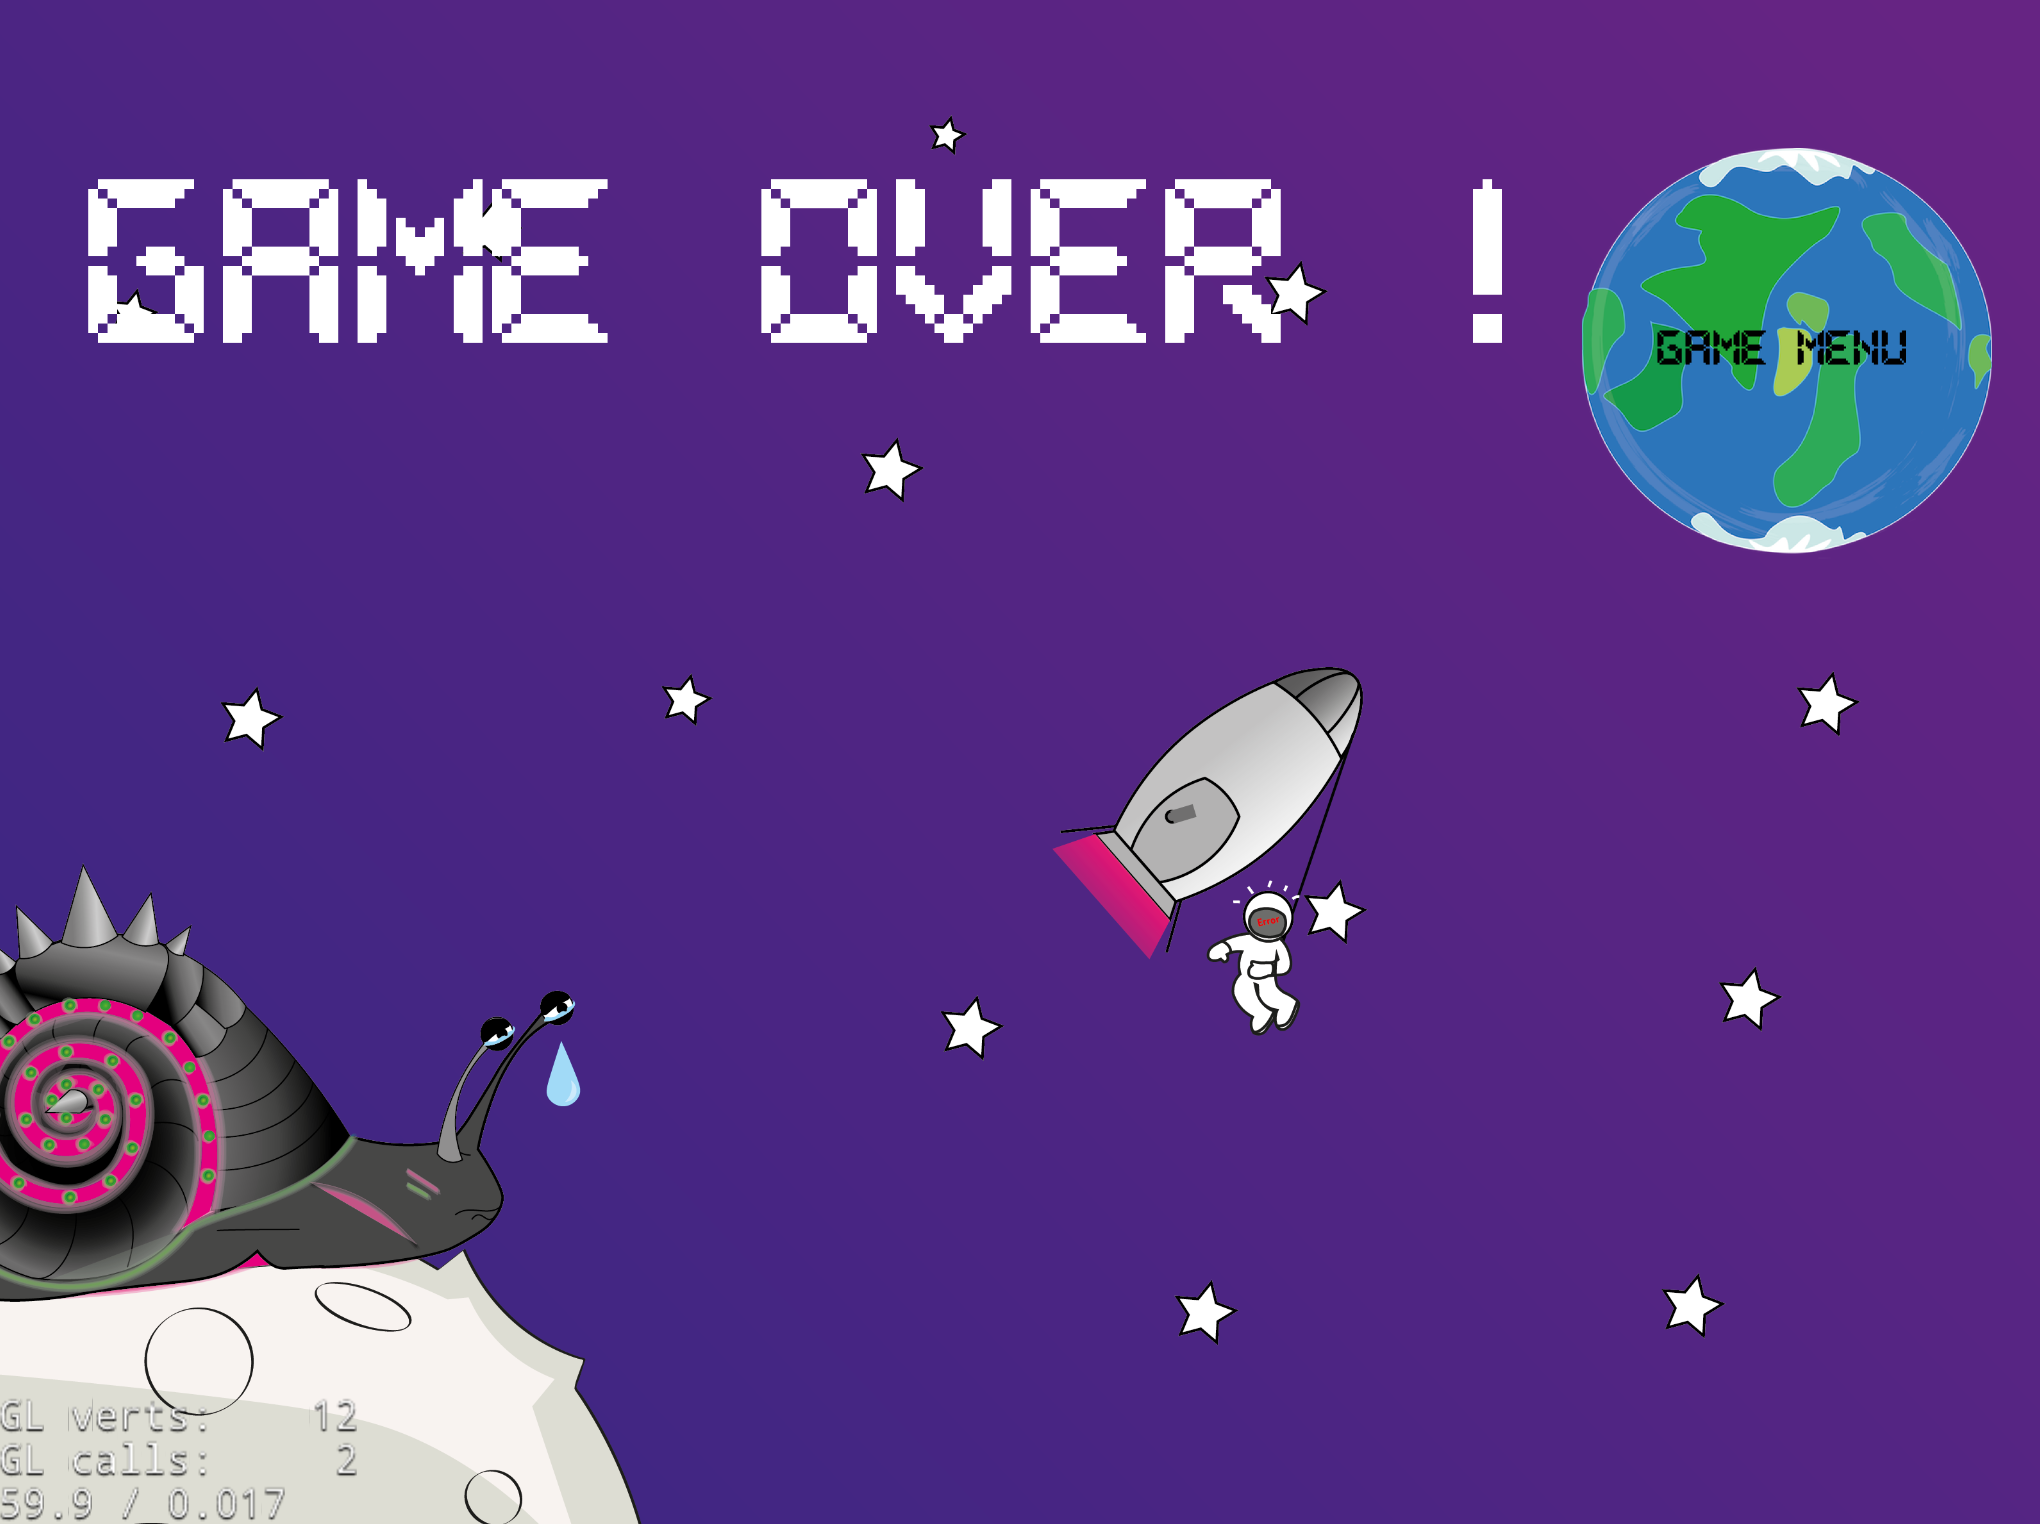
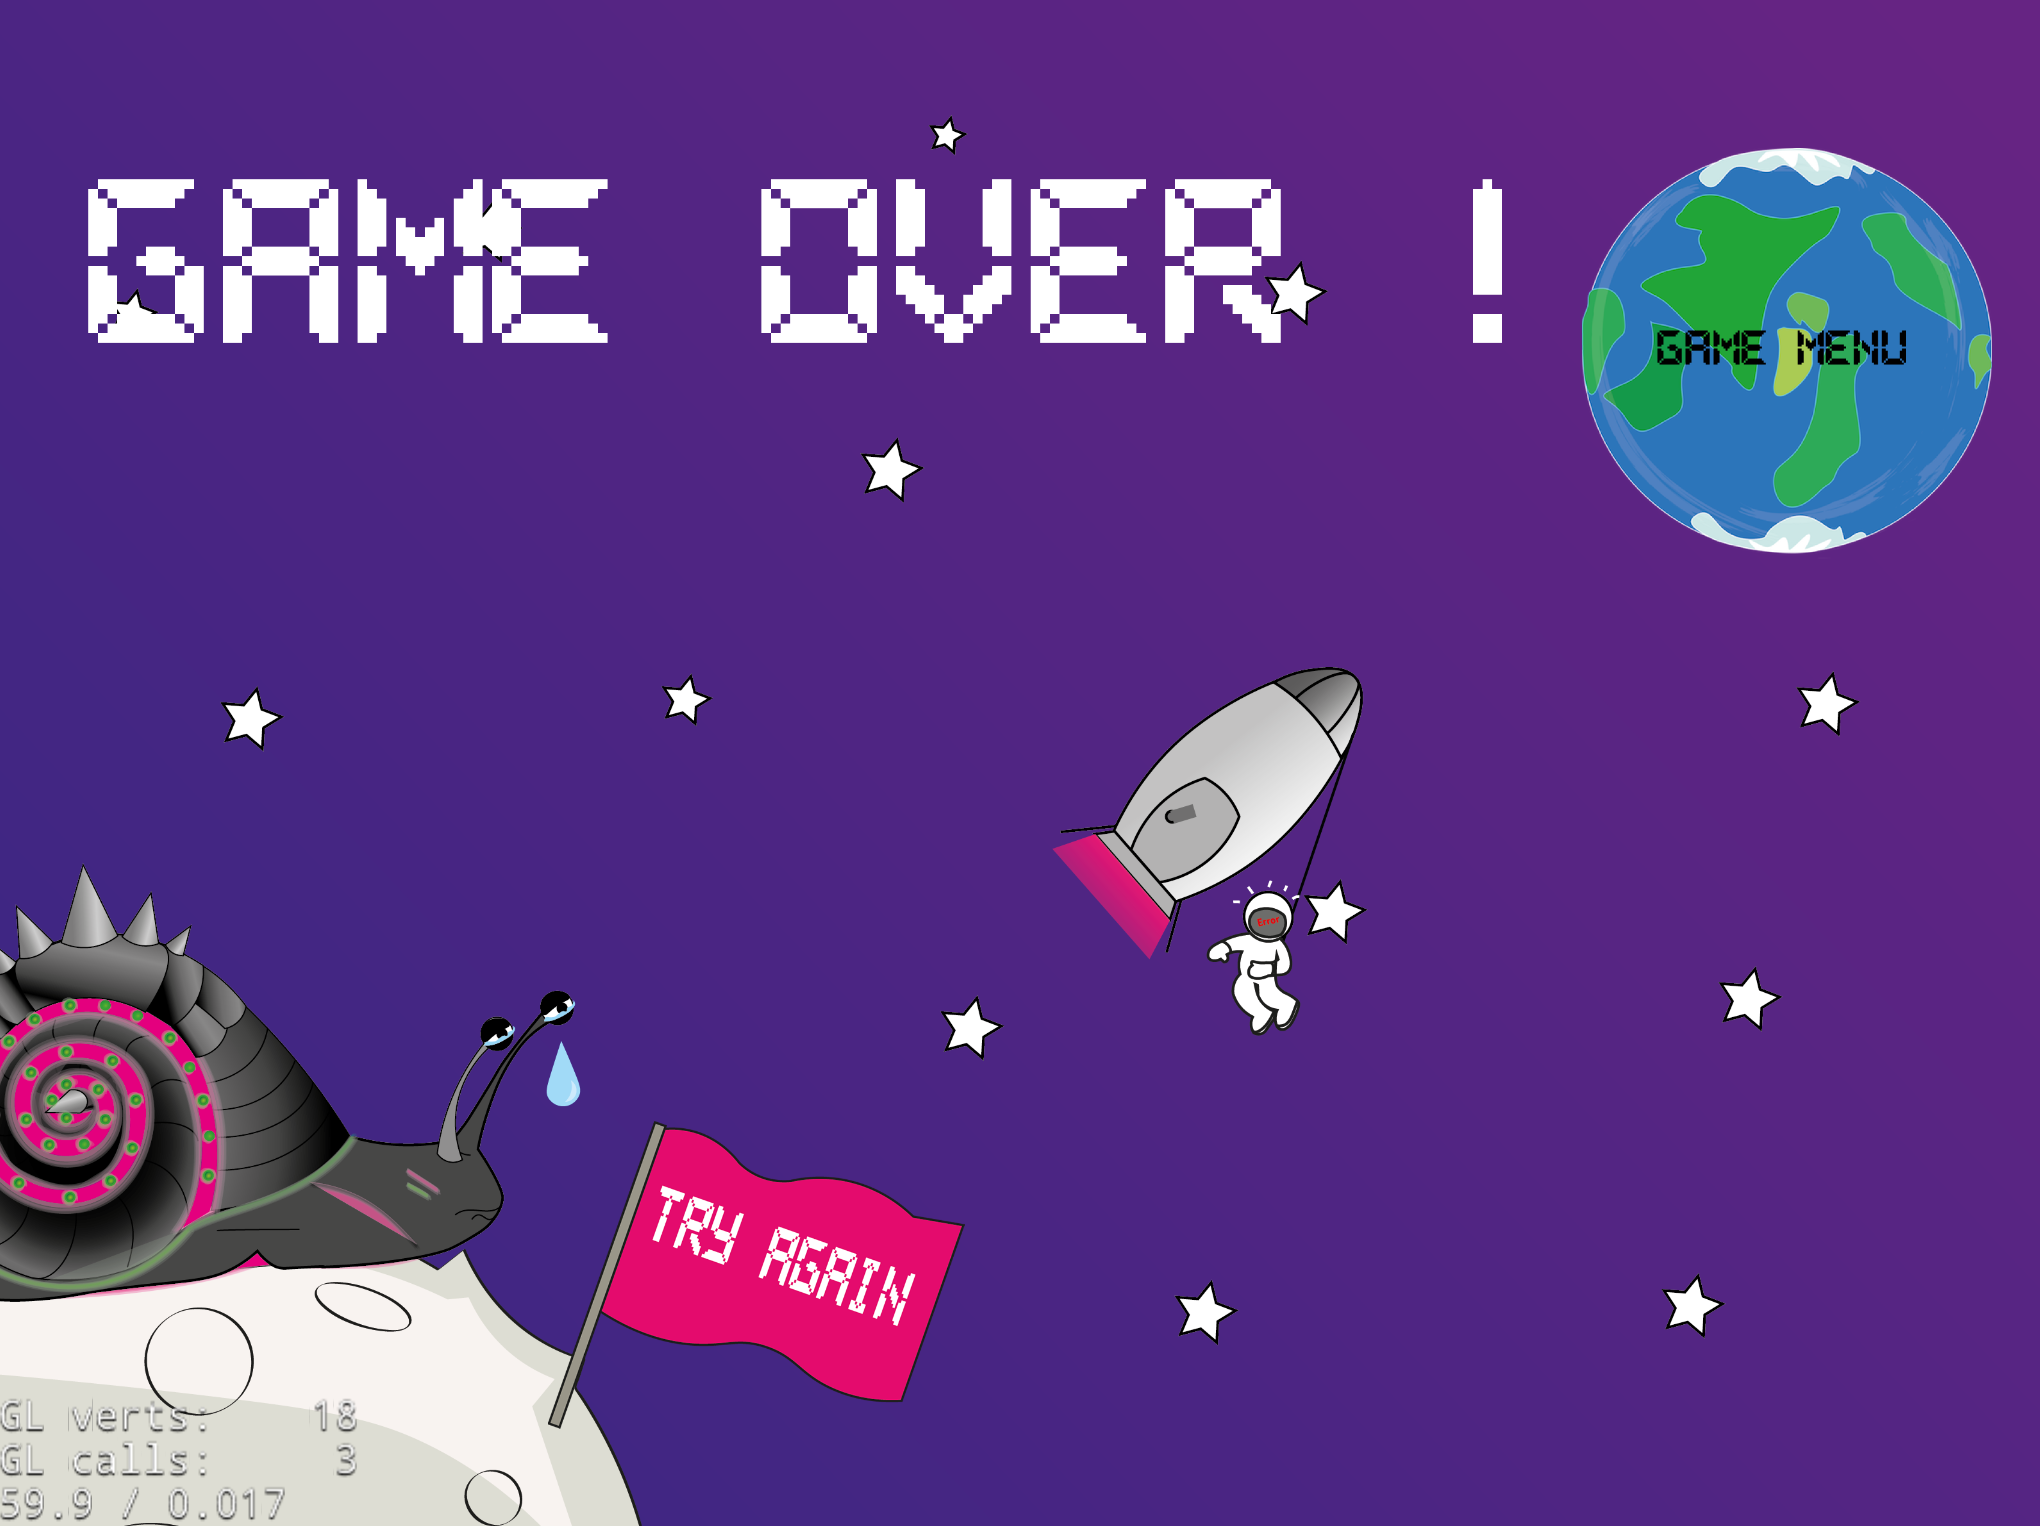
zwei neue screenshots, gameover scene wurde korrigiert

diff --git a/Classes/scenes/GameOverScene.cpp b/Classes/scenes/GameOverScene.cpp
@@ -31,17 +31,21 @@ bool GameOverScene::init() {
     
     this->addChild( backgroundSprite );
     
-    
+    Vector<MenuItem*> items;
     
     auto over_btn = MenuItemImage::create("res/tryagain.png", "res/tryagain.png", CC_CALLBACK_1(GameOverScene::goToMainScene, this) );
     over_btn->setScale(0.3);
     over_btn->setPosition(Vec2(visibleSize.width/2.7, visibleSize.height/1.2 + origin.y  - over_btn->getContentSize().height));
     
+    items.pushBack(over_btn);
+    
     auto start_btn = MenuItemImage::create("res/button_earth.png", "res/button_earth_clicked.png", CC_CALLBACK_1(GameOverScene::goToStartScene, this) );
     start_btn->setScale(0.3);
     start_btn->setPosition(Vec2(visibleSize.width - 130, visibleSize.height  - 180));
     
-    auto menu = Menu::create(start_btn, NULL);
+    items.pushBack(start_btn);
+    
+    auto menu = Menu::createWithArray(items);
     menu->setPosition(Point::ZERO);
     
     this->addChild(menu);
